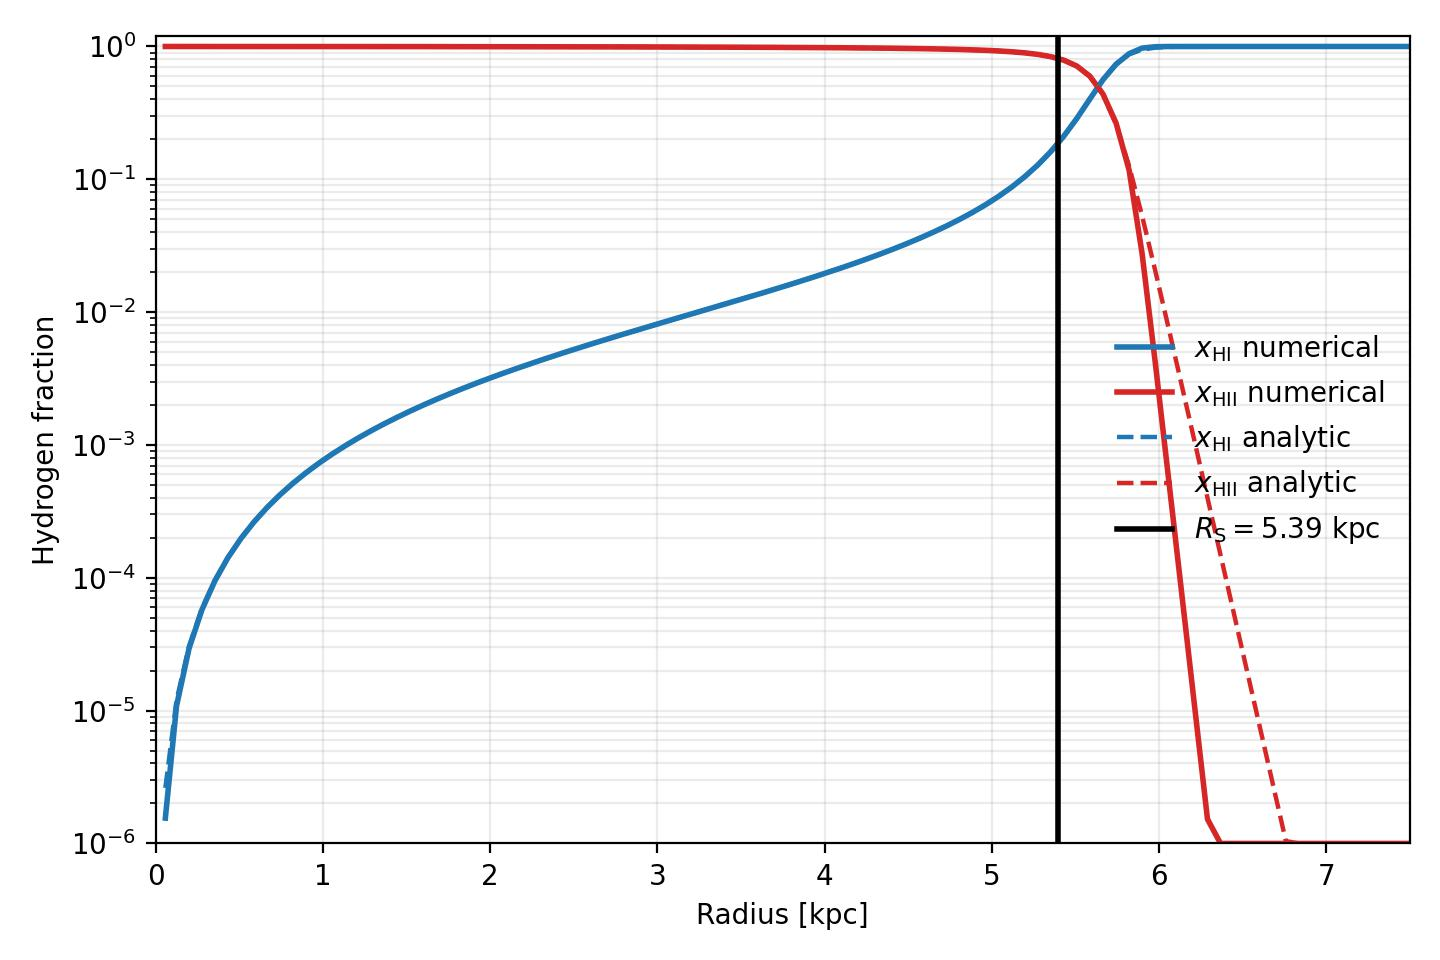
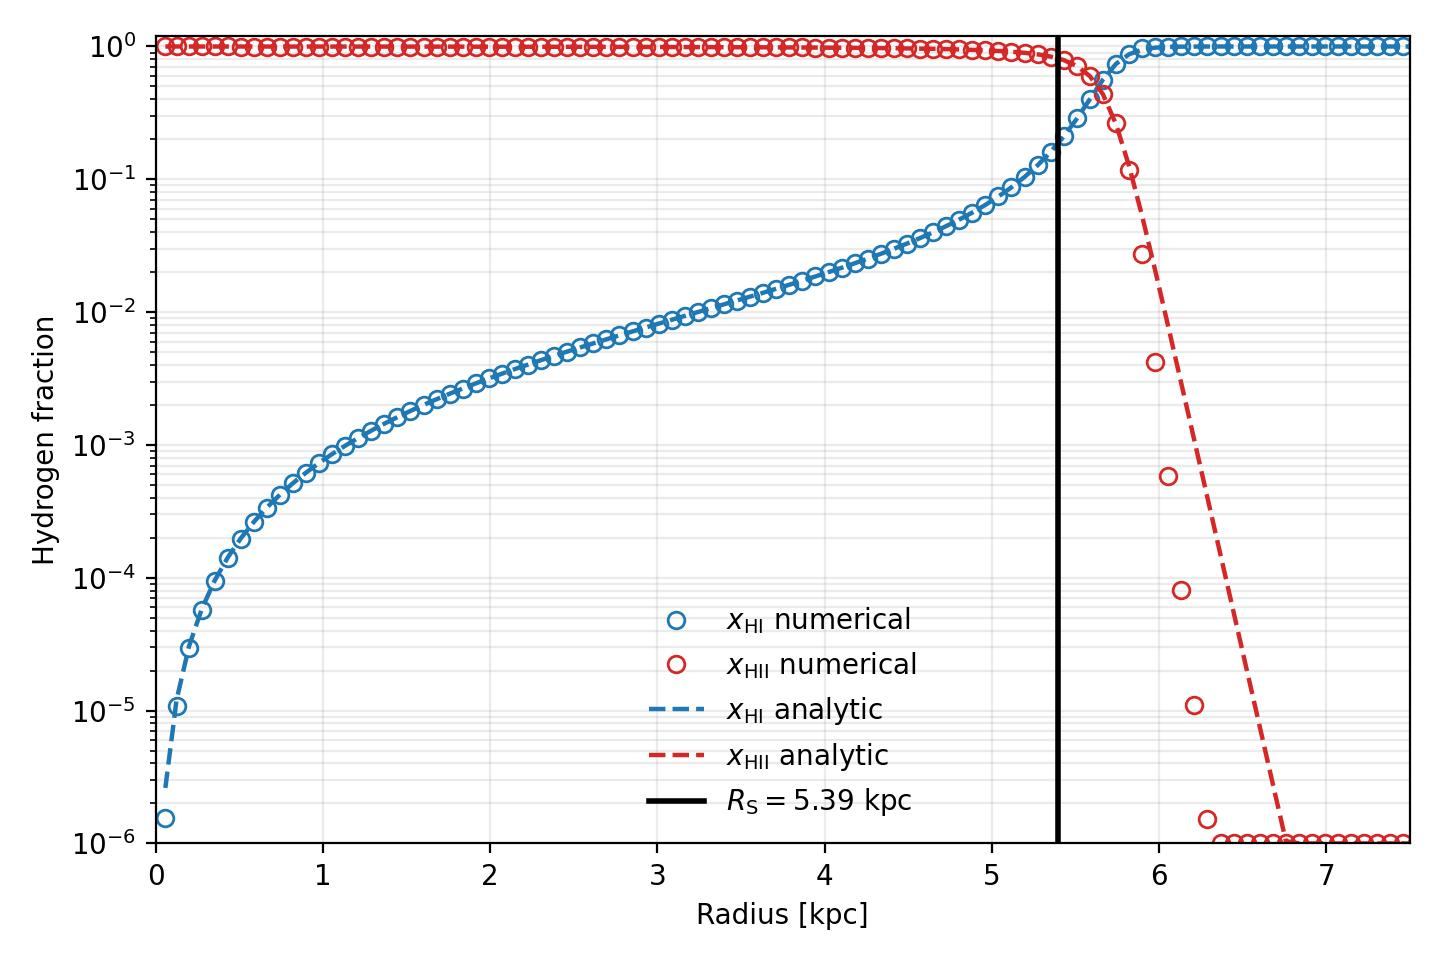
make RadHydropy/example/StaticStromgrenSphere1D/StaticStromgrenSphere1D.jpg easier to read

diff --git a/example/StaticStromgrenSphere1D/tools.py b/example/StaticStromgrenSphere1D/tools.py
@@ -331,6 +331,9 @@ def save_plot(mesh, fluid, config, figure_filename):
         color="tab:blue",
         lw=2.0,
         label=r"$x_{\rm HI}$ numerical",
+        marker="o",
+        mfc="none",
+        ls="None",
     )
     ax.plot(
         radius_proper_kpc,
@@ -338,6 +341,9 @@ def save_plot(mesh, fluid, config, figure_filename):
         color="tab:red",
         lw=2.0,
         label=r"$x_{\rm HII}$ numerical",
+        marker="o",
+        mfc="none",
+        ls="None",
     )
     ax.plot(
         radius_proper_kpc,
@@ -367,7 +373,7 @@ def save_plot(mesh, fluid, config, figure_filename):
     ax.set_yscale("log")
     ax.set_ylim(plot_floor, 1.2)
     ax.grid(visible=True, which="both", alpha=0.25)
-    ax.legend(frameon=False, loc="center right")
+    ax.legend(frameon=False, loc="lower center")
     fig.tight_layout()
     fig.savefig(figure_filename, dpi=200)
     plt.close(fig)
